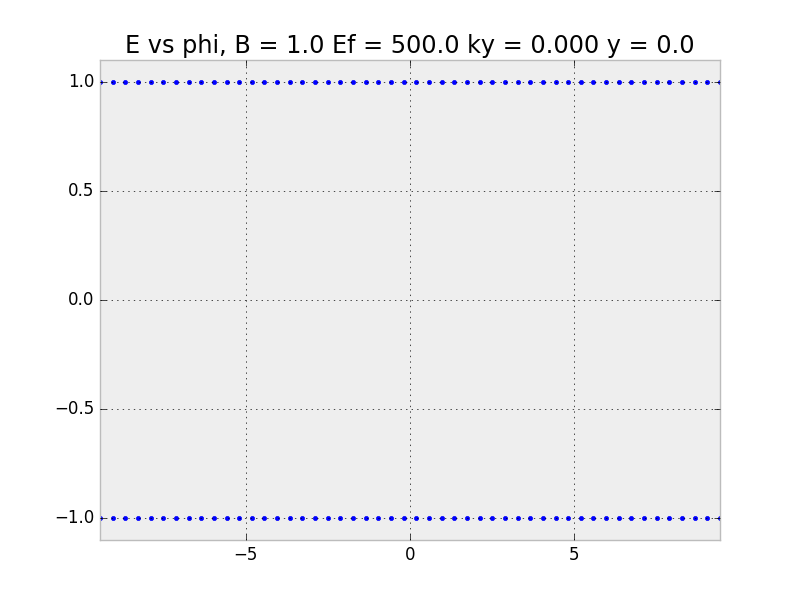
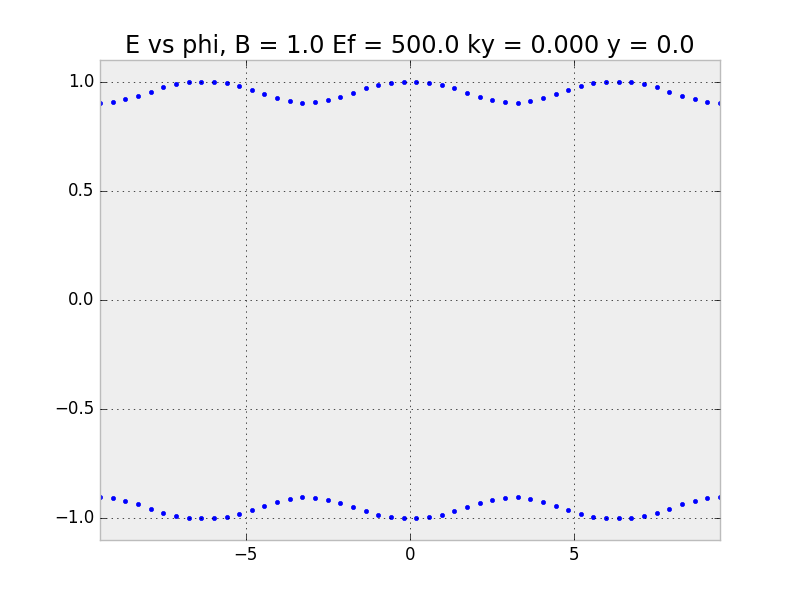
Interpolation works, now I must tweek the parameters

diff --git a/python/plotting.py b/python/plotting.py
@@ -2,9 +2,7 @@ import Functions
 from Functions import fun
 from Functions import freeEnergy
 from Functions import totalCurrent
-import matplotlib as mpl
-mpl.use('Agg')
-import matplotlib.pyplot as plt
+from matplotlib import pyplot as plt
 import time
 import os
 # nicer looking default plots
@@ -433,7 +431,6 @@ def plotAndSaveCurrentvsB(B_start,B_end,k_max,Ef,L,W,Z,kBT,N,method,intLim):
 
 ########################################################
 # Current vs B
-
 	
 def testFunction(B, Ef, ky, y, L, Z, N, n, method):
 	print('testFunction')
@@ -443,14 +440,11 @@ def testFunction(B, Ef, ky, y, L, Z, N, n, method):
 	print('B',B)
 	print('n',n)
 	print('N',N)
-	phi_start = -3*np.pi
-	phi_end = 3*np.pi
+	phi_start = -np.pi
+	phi_end = np.pi
 	phi = np.linspace(phi_start,phi_end,n)
 	E_array = np.linspace(-1,1,N)
 	Func_array = np.zeros(E_array.shape)
-	plt.figure()
-	plt.plot(phi,phi)
-	plt.show()
 	plt.figure()
 	for j in range(n):
 		print('count:',j+1,'/',n)
@@ -458,15 +452,16 @@ def testFunction(B, Ef, ky, y, L, Z, N, n, method):
 			Func_array[i] = fun([E_array[i]],phi[j],y,B,ky,Ef,L,Z,method)[0]
 		plotLabel='phi = '+str(phi[j])
 		plt.plot(E_array,Func_array,label=plotLabel)
-		plt.show()
 	plt.legend()
+	plt.show()
+	
 	
 	
  #################HVORFOR VIL IKKE TESTFUNCTION PLOTTE???????
    
 
 intLim = 50
-Z = 0
+Z = 0.
 L = 106.7
 n = 4
 Ef = 500.
@@ -486,7 +481,7 @@ B = 1.
 phi = np.pi
 y = 0.#4*Ef**2/(B**2*L)
 
-figCount = 5
+figCount = 1
 variable = 'B'
 start = 1.
 end = 8.
@@ -498,17 +493,23 @@ xVariable = 'phi'
 startXval = -3*np.pi
 endXval = 3*np.pi
 
-#plotAndSaveEvsPhi(start,end,figCount,startXval,endXval,phi,B,ky,y,Ef,L,Z,N,n,method,variable,xVariable)
+print('plotting 1')
+
+plotAndSaveEvsPhi(start,end,figCount,startXval,endXval,phi,B,ky,y,Ef,L,Z,N,n,method,variable,xVariable)
+
+print('plotting 2')
+
 #plotAndSaveFvsPhi(start,end,figCount,startXval,endXval,phi,B,ky,y,Ef,L,Z,N,method,variable,xVariable)
 #plotAndSaveFvsPhi(start,end,figCount,B,ky,y,Ef,L,Z,N,method,variable)
 #plotAndSaveEvsPhi(start,end,figCount,B,ky,y,Ef,L,Z,N,n,method,variable)
 #makePlotEvsPhi(B,ky,Ef,L,Z,100,n,method)
 #makePlotEvsKy(B,phi,Ef,L,Z,100,n,method)
 #plotCurrentvsPhi(B,Ef,L,Z,kBT,N,method)
-testFunction(B, Ef, ky, y,L, Z, N, n, method)
+#testFunction(B, Ef, ky, y, L, Z, N, n, method)
 #plotFvsPhi(B,Ef,ky,L,Z,kBT,N,method)
 #plotAndSaveCurrentvsPhi(start,end,figCount,k_max,B,Ef,L,W,Z,kBT,N,method,variable,intLim)
 #plotAndSaveCurrentvsB(start,end,k_max,Ef,L,W,Z,kBT,N,method,intLim)
+
 
 #####################
 #To remember

diff --git a/python/test.py b/python/test.py
@@ -23,16 +23,17 @@ def y2(xi,a):
 	
 EF = 500.
 Bmin = 1.
-Bmax = 8.
+Bmax = 1.
 L = 106.7
+kymax = 0.1
 
 amin = -(EF + 1)/Bmin
 amax = -(EF - 1)/Bmin
-anum = 50
+anum = 500
 
-xmin = -np.sqrt(Bmax/EF)
-xmax = +np.sqrt(Bmax/EF) * (1 + Bmax*L/(2*EF))
-xnum = 50
+xmin = -2*np.sqrt(EF/Bmin)*(kymax + Bmax*L/(2*EF))
+xmax =  2*np.sqrt(EF/Bmin)*(kymax + Bmax*L/(2*EF))
+xnum = 500
 
 avec = np.linspace(amin, amax, anum)
 xvec = np.linspace(xmin, xmax, xnum)
@@ -68,6 +69,15 @@ dy1real = np.zeros(100)
 dY1real = np.zeros(100)
 dy2real = np.zeros(100)
 dY2real = np.zeros(100)
+y1imag = np.zeros(100)
+Y1imag = np.zeros(100)
+y2imag = np.zeros(100)
+Y2imag = np.zeros(100)
+dy1imag = np.zeros(100)
+dY1imag = np.zeros(100)
+dy2imag = np.zeros(100)
+dY2imag = np.zeros(100)
+
 
 
 """
@@ -98,7 +108,9 @@ plt.show()
 """
 
 a = (amin+amax)/2
-x = np.linspace(xmin,xmax,100)
+print('xmin',xmin)
+print('xmax',xmax)
+x = np.linspace(-10,10,100)
 for i in range(100):
 	y1real[i] = y1(x[i],a).real
 	Y1real[i] = Y1(x[i],a).real
@@ -108,45 +120,60 @@ for i in range(100):
 	dY1real[i] = misc.derivative(Y1,x[i],args=(a,),dx=0.001).real
 	dy2real[i] = misc.derivative(y2,x[i],args=(a,),dx=0.001).real
 	dY2real[i] = misc.derivative(Y2,x[i],args=(a,),dx=0.001).real
+	y1imag[i] = y1(x[i],a).imag
+	Y1imag[i] = Y1(x[i],a).imag
+	y2imag[i] = y2(x[i],a).imag
+	Y2imag[i] = Y2(x[i],a).imag
+	dy1imag[i] = misc.derivative(y1,x[i],args=(a,),dx=0.001).imag
+	dY1imag[i] = misc.derivative(Y1,x[i],args=(a,),dx=0.001).imag
+	dy2imag[i] = misc.derivative(y2,x[i],args=(a,),dx=0.001).imag
+	dY2imag[i] = misc.derivative(Y2,x[i],args=(a,),dx=0.001).imag
 
 
 #print('y1real',y1real)
 #print('Y1real',Y1real)
 #print('y2real',y2real)
 #print('Y2real',Y2real)
-"""
-plt.figure()
-plt.plot(x,y1real)
-plt.show()
 
 plt.figure()
+plt.plot(x,y1real)
 plt.plot(x,Y1real)
 plt.show()
 
 plt.figure()
 plt.plot(x,y2real)
-plt.show()
-
-plt.figure()
 plt.plot(x,Y2real)
 plt.show()
-"""
+
 plt.figure()
-plt.plot(x,dy1real)
+plt.plot(x,dy1imag)
+plt.plot(x,dY1imag)
 plt.show()
 
 plt.figure()
-plt.plot(x,dY1real)
+plt.plot(x,dy2imag)
+plt.plot(x,dY2imag)
 plt.show()
 
 plt.figure()
-plt.plot(x,dy2real)
+plt.plot(x,y1imag)
+plt.plot(x,Y1imag)
 plt.show()
 
 plt.figure()
-plt.plot(x,dY2real)
+plt.plot(x,y2imag)
+plt.plot(x,Y2imag)
 plt.show()
 
+plt.figure()
+plt.plot(x,dy1imag)
+plt.plot(x,dY1imag)
+plt.show()
+
+plt.figure()
+plt.plot(x,dy2imag)
+plt.plot(x,dY2imag)
+plt.show()
 
 
 	

diff --git a/python/Functions.py b/python/Functions.py
@@ -10,7 +10,6 @@ from scipy.interpolate import interp2d
 def y1(xi,a):
 	res = mpmath.hyp1f1(0.5*a+0.25,0.5,0.5*xi**2)
 	factor = mpmath.exp(-0.25*xi**2)
-		
 	return complex(factor*res)
 	
 def y2(xi,a):
@@ -19,19 +18,23 @@ def y2(xi,a):
 	return complex(factor*res)
 	
 ############################
+print('Functions 1')
 
 EF = 500.
 Bmin = 1.
-Bmax = 8.
+Bmax = 5.
 L = 106.7
+kymax = 0.2
 
 amin = -(EF + 1)/Bmin
 amax = -(EF - 1)/Bmin
-anum = 100
+anum = 50
 
-xmin = -np.sqrt(Bmax/EF)
-xmax = +np.sqrt(Bmax/EF) * (1 + Bmax*L/(2*EF))
-xnum = 100
+xmin = -2*np.sqrt(EF/Bmin)*(kymax + Bmax*L/(2*EF))
+xmax =  2*np.sqrt(EF/Bmin)*(kymax + Bmax*L/(2*EF))
+#xmin = -np.sqrt(Bmax/EF)
+#xmax = +np.sqrt(Bmax/EF) * (1 + Bmax*L/(2*EF))
+xnum = 50
 
 avec = np.linspace(amin, amax, anum)
 xvec = np.linspace(xmin, xmax, xnum)
@@ -49,20 +52,24 @@ y1_int_im = interp2d(xvec, avec, y1_val.imag, kind='cubic')
 y2_int_re = interp2d(xvec, avec, y2_val.real, kind='cubic')
 y2_int_im = interp2d(xvec, avec, y2_val.imag, kind='cubic')
 
+print('Functions 2')
+
 def Y1(x, a):
-	return y1(x,a)
 	return complex(y1_int_re(x, a)[0], y1_int_im(x,a)[0])
 	
 def Y2(x, a):
-	return y2(x,a)
 	return complex(y2_int_re(x, a)[0], y2_int_im(x,a)[0])
 
-
+print('Functions 3')
+	
 ############################
 	
 
 	
 def fun(E_,phi,y,B,ky,Ef,L,Z,method):
+	print('fun 1')
+	
+	
 	E = E_[0]
 	
 	if E>1:
@@ -149,6 +156,8 @@ def fun(E_,phi,y,B,ky,Ef,L,Z,method):
 					   [0, 0, dD1_hR, dD2_hR, 0, 0, (-ZR-1j)*qh, (-ZR+1j)*qe]])
 	
 	D = det(matrix)
+	
+	print('fun 2')
 	
 	return [D.real,D.imag]
 
